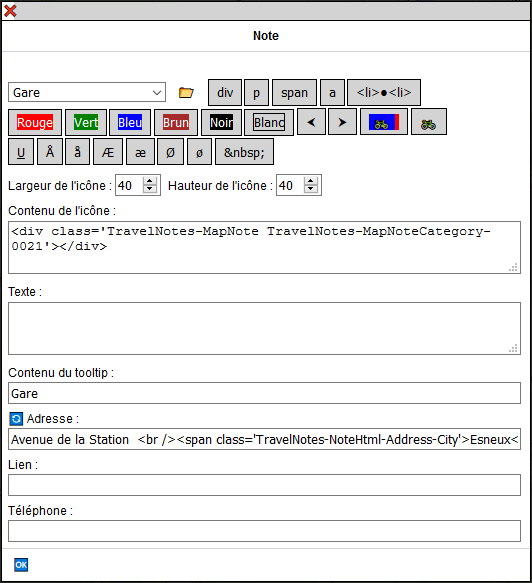
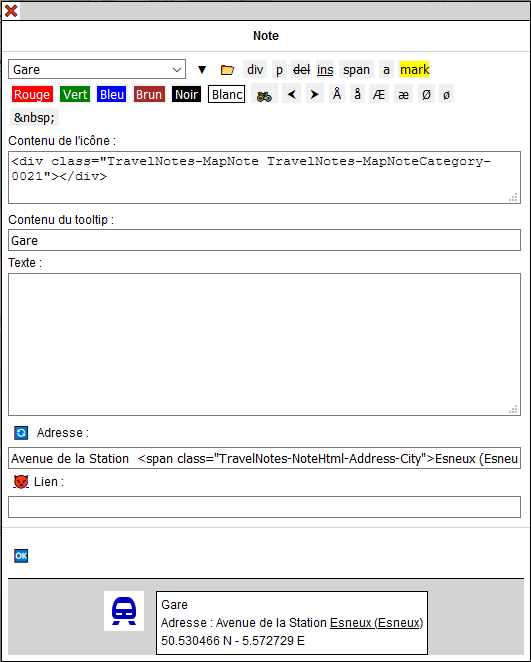
Update user guides

Changed region(s): [[0.0, 0.0, 1.0, 1.0], [0.0, 0.4631, 0.0904, 0.5249]]

diff --git a/TravelNotesGuides/fr/GuideUtilisateurFR.md b/TravelNotesGuides/fr/GuideUtilisateurFR.md
@@ -2,6 +2,7 @@
 
 - [Pourquoi Travel & Notes](#WhyTravelNotes)
 - [Quelques explications sur les termes utilisés](#SomeExplanations)
+- [Ouvrir un fichier de voyage créé avec un version antérieure à v2.0.0](#OpenFileWithV200)
 - [Avant de commencer à utiliser Travel & Notes](#BeforeStart)
 	- [Comment introduire vos clefs d'accès dans Travel & Notes](#APIKeys)
 - [Menus contextuels](#ContextMenus)
@@ -41,6 +42,7 @@
 	- [Transformer une note de voyage en note de trajet](#TravelToRouteNote)
 	- [Créer une note pour chaque manœuvre du trajet](#AllManeuverNotesFromOsm)
 	- [La boite d'édition d'une note](#NoteDlg)
+		- [Insérer du texte en html](#AddHtmltext)
 		- [Note de trajet prédéfinie "Icône SVG depuis OSM"](#SvgNoteFromOsm)
 		- [Quelques exemples de notes](#NoteSamples)
 - [Menu des fonds de carte](#MapsMenu)
@@ -89,6 +91,26 @@ une photo, un texte...
 
 Le **livre de voyage** est une page HTML qui regroupe toute l'information du voyage: les notes, 
 les trajets et les itinéraires.
+
+<a id="OpenFileWithV200"></a>
+## __Ouvrir un fichier de voyage créé avec un version antérieure à v2.0.0__
+
+ATTENTION : --**Il n'est pas possible d'ouvrir avec une version 1.x.x un fichier sauvé avec la version 2.0.0**__
+
+Il est possible que vous ayez encore besoin de la version antérieure pour faire des corrections dans les notes.
+Vous pouvez faire deux installations de Travel & Notes sans problème. Il suffit de les placer dans des répertoires
+différents. Vous pouvez aussi utiliser la démo de la version v2.0.0 installée sur 
+[https://wwwouaiebe.github.io/leaflet.TravelNotes/?lng=en](https://wwwouaiebe.github.io/leaflet.TravelNotes/?lng=en).
+
+- Faites une copie de sauvegarde de vos fichiers de voyage.
+- Ouvrez Travel & Notes v2.0.0 et ouvrez également la console web du navigateur.
+- Ouvrez un fichier à convertir.
+- La liste de toute les balises et attributs html supprimé·e·s est affichée dans la console et le voyage affiché 
+dans Travel & Notes.
+- Corrigez les erreurs éventuelles en utilisant votre ancienne version et ensuite en réouvrant votre voyage
+avec la version 2.0.0. OU effectuez directement les corrections nécessaires dans la version 2.0.0.
+- Pas de panique. Les seules corrections que j'ai du faire dans mes fichiers étaient des liens qui de toute façon étaient 
+incorrects et ne menaient donc à rien.
 
 <a id="BeforeStart"></a>
 ## __Avant de commencer à utiliser Travel & Notes__
@@ -173,21 +195,7 @@ de dialogue
 - APIKeys.dialogHaveUnsecureButtons pour afficher ou masquer les boutons 💾 
 et 📂 à __droite__
 
-L'ancienne méthode consistant à introduire les clefs d'accès via l'url continue à fonctionner mais sera supprimée 
-dans une prochaine version:
-- à la fin de l'url de la page web chargeant Travel & Notes, vous devez introduire un ? suivi 
-du nom du fournisseur suivi de ProviderKey suivi de = suivi de votre clef d'accès. 
-Plsieurs clef d'accès peuvent être introduites simultanément en les séparants par un &.
-
-Exemple:
-```
-https://www.example.org/TravelNotes/?MapboxProviderKey=votre_clef_accessMapbox&GraphHopperProviderKey=votre_clef_acces_GraphHopper
-```
-
-Dès que Travel & Notes détecte des clefs d'accès dans l'url, celles-ci sont enrégistrées dans 
-le _sessionStorage_ et effacée de l'url. Elles ne sont donc plus visibles à l'écran.
-**Cependant, rappelez-vous qu'une personne mal intentionnée peut toujours les retrouver dans 
-l'historique du navigateur**, à moins que vous n'utilisiez le mode navigation privée de votre browser.
+L'ancienne méthode consistant à introduire les clefs d'accès via l'url est supprimée.
 
 <a id="ContextMenus"></a>
 ## __Menus contextuels__
@@ -232,7 +240,8 @@ L'url peut être modifiée via le fichier TravelNotesConfig.json (travelNotesToo
 #### Nom du voyage
 
 Dans cette boite d"édition vous pouvez donner un nom au voyage. Ce nom sera par la suite proposé comme nom par défaut 
-pour tous les fichiers que vous créerez à partir de ce voyage.
+pour tous les fichiers que vous créerez à partir de ce voyage. Il est nécessaire de donner un nom au voyage avant
+de pouvoir sauver celui-ci.
 
 <a id="RouteToolbar"></a>
 #### Boutons de la barre d'outils "Voyage"
@@ -607,6 +616,7 @@ Faites un clic droit sur le trajet et sélectionnez "Créer une note pour chaque
 contextuel. Une demande de confirmation est affichée. 
 Pour chaque manœuvre du trajet, [une note en SVG à partir des données OpenStreetMap ](#SvgNoteFromOsm) sera créée.
 
+
 <a id="NoteDlg"></a>
 ### La boite d'édition d'une note
 
@@ -615,22 +625,83 @@ Pour chaque manœuvre du trajet, [une note en SVG à partir des données OpenStr
 Dans le haut de la boite, une liste déroulante permet de choisir des notes prédéfinies. Il est possible 
 de modifier cette liste. Consultez le [guide d'installation](GuideInstallationFR.md#TravelNotesNoteDialogJson).
 
-Le bouton :file_folder: vous permet de charger votre propre fichier avec des notes prédéfinies dans 
+Le bouton ▼ cache affiche certaines zones d'édition qui sont masquées par défaut (les deux controles permettant de 
+modifier les dimensions de l'icône et le n° de téléphone ). Il est possible de choisir quelles zones sont masquées par défaut.
+Consultez le [guide d'installation](GuideInstallationFR.md#TravelNotesNoteDialogJson)
+
+Le bouton 📂 vous permet de charger votre propre fichier avec des notes prédéfinies dans 
 Travel & Notes. Consultez le [guide d'installation](GuideInstallationFR.md#TravelNotesNoteDialogJson). pour savoir comment créer ce fichier.
 
-Les boutons div p span et a permettent d'ajouter les balises html &lt;div&gt;, &lt;p&gt;, &lt;span&gt;
-et &lt;a&gt; dans les zones d'édition. Tous les autres boutons sont modifiables et permettent aussi 
-d'insérer du texte prédéfini dans les zones d'édition. Voir le [guide d'installation](GuideInstallationFR.md#TravelNotesNoteDialogJson).
-
-Chaque zone d'édition peut contenir du texte simple ou du html, à l'exception de la zone "Lien".
+Tous les autres boutons sont modifiables et permettent d'insérer des balises html ou du texte prédéfini dans les zones d'édition. 
+Voir le [guide d'installation](GuideInstallationFR.md#TravelNotesNoteDialogJson).
 
 La zone "Contenu de l'icône" sera utilisée pour représenter la note sur la carte et ne peut pas être 
 vide (laisser cette zone vide empêcherait toute modification ultérieure de la note).
 
 La zone "Adresse" est complétée automatiquement lors de la création de la note - 
-[Nominatim](http://wiki.openstreetmap.org/wiki/Nominatim) est utilisé pour géolocaliser les notes.
+[Nominatim](http://wiki.openstreetmap.org/wiki/Nominatim) est utilisé pour le nom de rue et
+OverpassAPI pour le nom de commune.
 Cette zone ne sera jamais modifiée par Nominatim par la suite, même si la note a été déplacée. 
-Le bouton 🔄 permet cependant de demander une nouvelle géolocalisation à Nominatim.
+Le bouton 🔄 permet cependant de demander une nouvelle géolocalisation à Nominatim/OverpassAPI.
+
+Chaque zone d'édition peut contenir du texte simple ou du html, à l'exception de la zone "Lien" qui ne peut contenir qu'un lien valide.
+
+<a id="AddHtmltext"></a>
+#### Insérer du texte en html
+
+Seules les balises html et attributs suivantes peuvent être utilisé·e·s:
+- la balise &lt;div&gt; (bloc de texte)
+- la balise &lt;p&gt; (paragraphe)
+- les balises &lt;h1&gt; à &lt;h6'&gt; (titres)
+- la balise &lt;hr&gt; (ligne horizontale)
+- la balise &lt;ol&gt; (liste à puces ou liste numérotée)
+- la balise &lt;li&gt; (élément de liste à puce)
+- la balise &lt;ul&gt; (élément de liste numérotée)
+- la balise &lt;span&gt; (bloc de texte en inline)
+- la balise &lt;figure&gt; (figure)
+- la balise &lt;figcaption&gt; (légende pour la balise figure)
+- la balise &lt;img&gt; avec les attributs src, alt width et height (image)
+- la balise &lt;br&gt; (passage à la ligne)
+- la balise &lt;a&gt; avec les attributs href et target
+- la balise &lt;del&gt; (texte supprimé)
+- la balise &lt;ins&gt; (texte ajouté)
+- la balise &lt;mark&gt; (texte surligné)
+- la balise &lt;s&gt; (texte barré)
+- la balise &lt;em&gt; (texte en italique)
+- la balise &lt;small&gt; (texte en petits caractères)
+- la balise &lt;strong&gt; (texte en gras)
+- la balise &lt;sub&gt; (texte en indice)
+- la balise &lt;sup&gt; (texte en exposant)
+
+En outre, les balises svg suivantes peuvent être utilisées:
+- la balise &lt;svg&gt; avec les attributs xmlns et viewBox
+- la balise &lt;text&gt; avec les attributs x, y et text-anchor
+- la balise &lt;polyline&gt; avec les attributs points et transform
+
+Pour toutes les balises, les attributs id, class, dir et title peuvent également être utilisées.
+
+Les règles d'édition du html sont bien sûr d'application:
+- une balise ouvrante ET une balise fermante doivent être utilisées: &lt;p&gt;Lorem ipsum... &lt;/p&gt;
+- les valeurs des attributs doivent toujours être placées entre des &quot; : class=&quot;"myClass&quot;
+- les caractères &lt; et &gt; sont réservés pour les balises et ne peuvent être utilisés ailleurs. 
+Si vous avez absolument besoin de ces caractères, vous devez les remplacer par les entités html &amp;lt; pour &lt; et
+&amp;gt; pour &gt;
+- les doubles guillemets sont réservés pour la délimitation des valeurs d'attribut. En cas de besoin utilisez 
+l'entité html &quot; en remplacement
+- le caractère &apos; ne peut pas être utilisé et doit être remplacé par l'entité html &amp;apos;
+- le caractère &amp; est ambigü et ne devrait être utilisé que dans les entités html
+- l'espace insécable doit être inséré avec l'entité html &amp;nbsp;
+
+Les url's introduits dans les attributs href et src, ainsi que dans la zone d'édition "lien" doivent être des url's valides:
+- les url's doivent être des liens absolus
+- les url's ne peuvent pas contenir les caractères &lt;, &gt;, &apos; et &quot;
+- les protocoles doivent être http:, https:, mailto:, sms: ou tel: pour un attribut href:
+- les protocoles doivent être https: pour l'attribut src (http: est également acceptable si le protocole de l'apps est http:)
+- les 'pathname' des liens sms: et tel: doivent commencer par un + et ne contenir que les caractères #, * ou des chiffres
+
+Au fur et à mesure que du texte est inséré dans une zone d'édition, l'apps interprète celui-ci et
+adapte la prévisualisation de la note en conséquence. Lorsque la boite d'édition est fermée avec le bouton 🆗,
+le texte que vous avez introduit est remplacé par celui produit par l'interprétation que l'apps en a fait.
 
 <a id="SvgNoteFromOsm"></a>
 #### Note de trajet prédéfinie "Icône SVG depuis OSM"
@@ -730,7 +801,8 @@ Il est possible de préparer un voyage, sauver celui-ci dans un fichier sur un s
 celui-ci depuis internet.
 
 Pour consulter le voyage, il faut appeler TravelNotes en lui donnant en paramètre dans l'url l'adresse 
-du fichier convertie en base64.
+du fichier convertie en base64. Et rappelez-vous que l'on ne peut convertir en base64 que des caractères 
+ascii...
 
 ```
 https://wwwouaiebe.github.io/leaflet.TravelNotes/?fil=aHR0cHM6Ly93d3dvdWFpZWJlLmdpdGh1Yi5pby9zYW1wbGVzL0xpZWdlL1N0YXRpb25Ub1lvdXRoSG9zdGVsLnRydg==
@@ -773,6 +845,6 @@ D'autres exemples:
 
 [Les cartes du premier trajet de Dover à Chester](https://wwwouaiebe.github.io/samples/UK2019/UK2019.pdf)
 
-[Un voyage en train, bus et vélo de Liège à Tromsø](https://wwwouaiebe.github.io/leaflet.TravelNotes/viewer/?fil=aHR0cHM6Ly93d3dvdWFpZWJlLmdpdGh1Yi5pby9zYW1wbGVzL0xpZWdlLVRyb21zw7gvc3VvbWkyMDE4MDYwOC50cnY=)
+[Un voyage en train, bus et vélo de Liège à Tromsø](https://wwwouaiebe.github.io/leaflet.TravelNotes/viewer/?fil=aHR0cHM6Ly93d3dvdWFpZWJlLmdpdGh1Yi5pby9zYW1wbGVzL0xpZWdlLVRyb21zby9zdW9taTIwMTgwNjA4LnRydg==)
 
-[Et le livre de voyage de Liège à Tromsø](https://wwwouaiebe.github.io/samples/Liege-Tromsø/suomi20180608-Roadbook.html)
+[Et le livre de voyage de Liège à Tromsø](https://wwwouaiebe.github.io/samples/Liege-Tromso/suomi20180608-Roadbook.html)

diff --git a/TravelNotesGuides/en/UserGuideEN.md b/TravelNotesGuides/en/UserGuideEN.md
@@ -2,6 +2,7 @@
 
 - [Why Travel & Notes](#WhyTravelNotes)
 - [Some explanations on the terms used](#SomeExplanations)
+- [Open a travel file created with a version earlier than v2.0.0](#OpenFileWithV200)
 - [Before you start using Travel & Notes](#BeforeStart)
 	- [How to introduce your access keys in Travel & Notes](#APIKeys)
 - [Context menus](#ContextMenus)
@@ -41,6 +42,7 @@
 	- [Turn a travel note into a route note](#TravelToRouteNote)
 	- [Create a note for each route maneuver](#AllManeuverNotesFromOsm)
 	- [The note dialog box](#NoteDlg)
+		- [Insert text in html](#AddHtmltext)
 		- [Predefined route notes "SVG icon from OSM"](#SvgNoteFromOsm)
 		- [Some examples of notes](#NoteSamples)
 - [Background map menu](#MapsMenu)
@@ -85,6 +87,26 @@ This icon can be an image, a photo, a text ...
 
 The **roadbook** is an HTML page that contains all the information of the travel: the notes, the 
 routes and the itineraries.
+
+<a id="OpenFileWithV200"></a>
+## __Open a travel file created with a version earlier than v2.0.0__
+
+ATTENTION : --**It is not possible to open with version 1.x.x a file saved with version 2.0.0**__
+
+You may still need the older version to make corrections in the notes.
+You can do two installations of Travel & Notes without any problem. You just have to place them 
+in different directories. You can also use the demo of version v2.0.0 installed on 
+[https://wwwouaiebe.github.io/leaflet.TravelNotes/?lng=en](https://wwwouaiebe.github.io/leaflet.TravelNotes/?lng=en).
+
+- Make a backup copy of your travel files.
+- Open Travel & Notes v2.0.0 and also open the browser's web console.
+- Open a file to convert.
+- The list of all deleted html tags and attributes is displayed in the console and the travel
+displayed in Travel & Notes.
+- Correct any errors by using your old version and then reopening your travel with version 2.0.0. OR directly
+make the necessary corrections in version 2.0.0.
+- Do not panic. The only fixes I had to make in my files were links which were incorrect anyway and 
+therefore didn't lead to anything.
 
 <a id="BeforeStart"></a>
 ## __Before you start using Travel & Notes__
@@ -161,20 +183,7 @@ For geeks and paranos also see in the [installation guide](InstallationGuideEN.m
 - APIKeys.showAPIKeysInDialog to show or hide the keys as a password in the dialog box
 - APIKeys.dialogHaveUnsecureButtons to show or hide the buttons 💾 and 📂 on __right__
 
-The old method of entering access keys via the url continues to work but will be deleted
-in a future version:
-- at the end of the url of the web page loading Travel & Notes: you need to enter a ? followed 
-by the provider name + 'ProviderKey' followed by = followed by your access key. Several access keys 
-can be introduced simultaneously by separating them by a &.
-
-Sample:
-```
-https://www.example.org/TravelNotes/?MapboxProviderKey=your_Mapbox_access_key&GraphHopperProviderKey=your_GraphHopper_access_key
-```
-
-As soon as Travel & Notes detects access keys in the url, they are stored in the __sessionStorage__ and 
-deleted from the url. They are no longer visible on the screen. **However, remember that a malicious 
-person can always find them in the browser history**, unless you use the private mode of your browser.
+The old method consisting in entering the access keys via the url is removed.
 
 <a id="ContextMenus"></a>
 ## __Context menus__
@@ -219,7 +228,8 @@ the url can be modified via the TravelNotes Config.json file (travelNotesToolbar
 #### Travel name
 
 In this edit box you can give a name to the travel. This name will then be proposed as the default name
-for all the files you will create from this travel.
+for all the files you will create from this travel. It is necessary to give a name to the travel before
+to be able to save this one.
 
 <a id="RouteToolbar"></a>
 #### Toolbar buttons "Travel"
@@ -588,22 +598,83 @@ For each route maneuver, [a SVG note from the OpenStreetMap data](#SvgNoteFromOs
 At the top of the box, a drop-down list allows you to choose predefined notes. It is possible to 
 modify this list. See the [installation guide](InstallationGuideEN.md#TravelNotesNoteDialogJson).
 
-The :file_folder: button allows you to load your own file with predefined notes in Travel & Notes. 
-Consult the [installation guide](InstallationGuideEN.md#TravelNotesNoteDialogJson) to find out how create this file.
+The ▼ button hides or displays certain editing areas which are hidden by default (the two controls allow you to modify 
+the dimensions of the icon and the telephone number). It is possible to choose which areas are hidden by default. 
+Consult the [installation guide](GuideInstallationEN.md#TravelNotesConfigJson);
 
-The div p span and a buttons add html tags &lt;div&gt;, &lt;p&gt;, &lt;span&gt; et &lt;a&gt; to 
-edit boxes. All other buttons are editable and also allow you to insert predefined text into the 
-edit boxes. See the [installation guide](InstallationGuideEN.md#TravelNotesNoteDialogJson).
+The 📂 button allows you to upload your own file with notes predefined in Travel & Notes. 
+See the [installation guide] (GuideInstallationEN.md#TravelNotesNoteDialogJson) for how to create this file.																						   
 
-Each edit box can contain plain text or html, except for the "Link" area.
+All the other buttons are modifiable and allow you to insert html tags or predefined text in the edit zones. 
+Consult the [installation guide](GuideInstallationEN.md#TravelNotesConfigJson);
 
 The "Icon Content" area will be used to represent the note on the map and can not be empty 
 (leaving this area blank would prevent any subsequent changes to the note).
 
-The "Address" area is completed automatically when creating the note - 
-[Nominatim](http://wiki.openstreetmap.org/wiki/Nominatim) is used to geotag the notes.
+The "Address" zone is automatically completed when creating the note - 
+[Nominatim](http://wiki.openstreetmap.org/wiki/Nominatim) is used for the street name and
+OverpassAPI for the municipality name.
 This area will never be changed by Nominatim afterwards, even if the note has been moved. 
-The button 🔄 allows, however, to request a new geolocation to Nominatim.
+The button 🔄 allows, however, to request a new geolocation to Nominatim/OverpassAPI.
+
+Each edit zone can contain plain text or html, with the exception of the "Link" zone which can only contain a valid link.
+
+<a id="AddHtmltext"></a>
+
+#### Insert text in html
+
+Only the following html tags and attributes can be used:
+- the tag &lt;div&gt; (text block)
+- the tag &lt;p&gt; (paragraph)
+- the tags &lt;h1&gt; à &lt;h6'&gt; (heading)
+- the tag &lt;hr&gt; (horizontal line)
+- the tag &lt;ol&gt; (bulleted list or numbered list)
+- the tag &lt;li&gt; (element of bulleted list)
+- the tag &lt;ul&gt; (element of numbered list)
+- the tag &lt;span&gt; (inline text block)
+- the tag &lt;figure&gt; (figure)
+- the tag &lt;figcaption&gt; (legend for the figure tag)
+- the tag &lt;img&gt; with the attributes src, alt width and height (image)
+- the tag &lt;br&gt; (new line)
+- the tag &lt;a&gt; with the attributes href end target
+- the tag &lt;del&gt; (deleted text)
+- the tag &lt;ins&gt; (added text)
+- the tag &lt;mark&gt; (highlighted text)
+- the tag &lt;s&gt; (strikethrough text)
+- the tag &lt;em&gt; (italic text)
+- the tag &lt;small&gt; (small text)
+- the tag &lt;strong&gt; (bold text)
+- the tag &lt;sub&gt; (subscript text)
+- the tag &lt;sup&gt; (superscript text)
+
+Also, the following svg tags can be used:
+- the tag &lt;svg&gt; with the attributes xmlns and viewBox
+- the tag &lt;text&gt; with the attributes x, y and text-anchor
+- the tag &lt;polyline&gt; with the attributes points and transform
+
+For all tags, id, class, dir and title attributes can also be used.
+
+The rules for editing html are of course applicable:
+- an opening tag AND a closing tag must be used: &lt;p&gt;Lorem ipsum... &lt;/p&gt;
+- attribute values must always be placed between &quot; : class=&quot;"myClass&quot;
+- the characters &lt; and &gt; are reserved for tags and cannot be used elsewhere.
+If you absolutely need these characters, you should replace them with the html entities &amp;lt; for &lt; and
+&amp;gt; for &gt;.
+- double quotes are reserved for delimiting attribute values. If necessary use the html entity &quot;.
+- the character &apos; cannot be used and must be replaced by the html entity &amp;apos;.
+- the character &amp; is ambiguous and should only be used in html entities
+- the non-breaking space must be inserted with the html entity &amp;nbsp;
+
+The urls introduced in the href and src attributes, as well as in the "link" edit zone must be valid urls:
+- urls must be absolute links
+- url's cannot contain characters &lt;, &gt;, &apos; et &quot;
+- protocols must be http:, https:, mailto:, sms: or tel: for an href attribute
+- protocols must be https: for the src attribute (http: is also acceptable if the app's protocol is http:)
+- the pathname of the sms: and tel: links must start with a + and contain only the characters #, * or numbers
+
+As more text is inserted into an edit box, the app interprets the text and adapts the note preview accordingly. 
+When the edit box is closed with the 🆗 button, the text you entered is replaced by the one produced by 
+the interpretation that the app made of it.
 
 <a id="SvgNoteFromOsm"></a>
 #### Predefined route notes "SVG icon from OSM"
@@ -701,7 +772,7 @@ The "Save" button saves the html file on your PC.
 It is possible to prepare a travel, save it in a file on a web server and consult it from the internet.
 
 To consult the travel, you must call TravelNotes by giving it as a parameter in the URL the address 
-of the file converted to base64.
+of the file converted to base64. And remember that you can only convert ascii characters to base64 ...
 
 ```
 https://wwwouaiebe.github.io/leaflet.TravelNotes/?fil=aHR0cHM6Ly93d3dvdWFpZWJlLmdpdGh1Yi5pby9zYW1wbGVzL0xpZWdlL1N0YXRpb25Ub1lvdXRoSG9zdGVsLnRydg==
